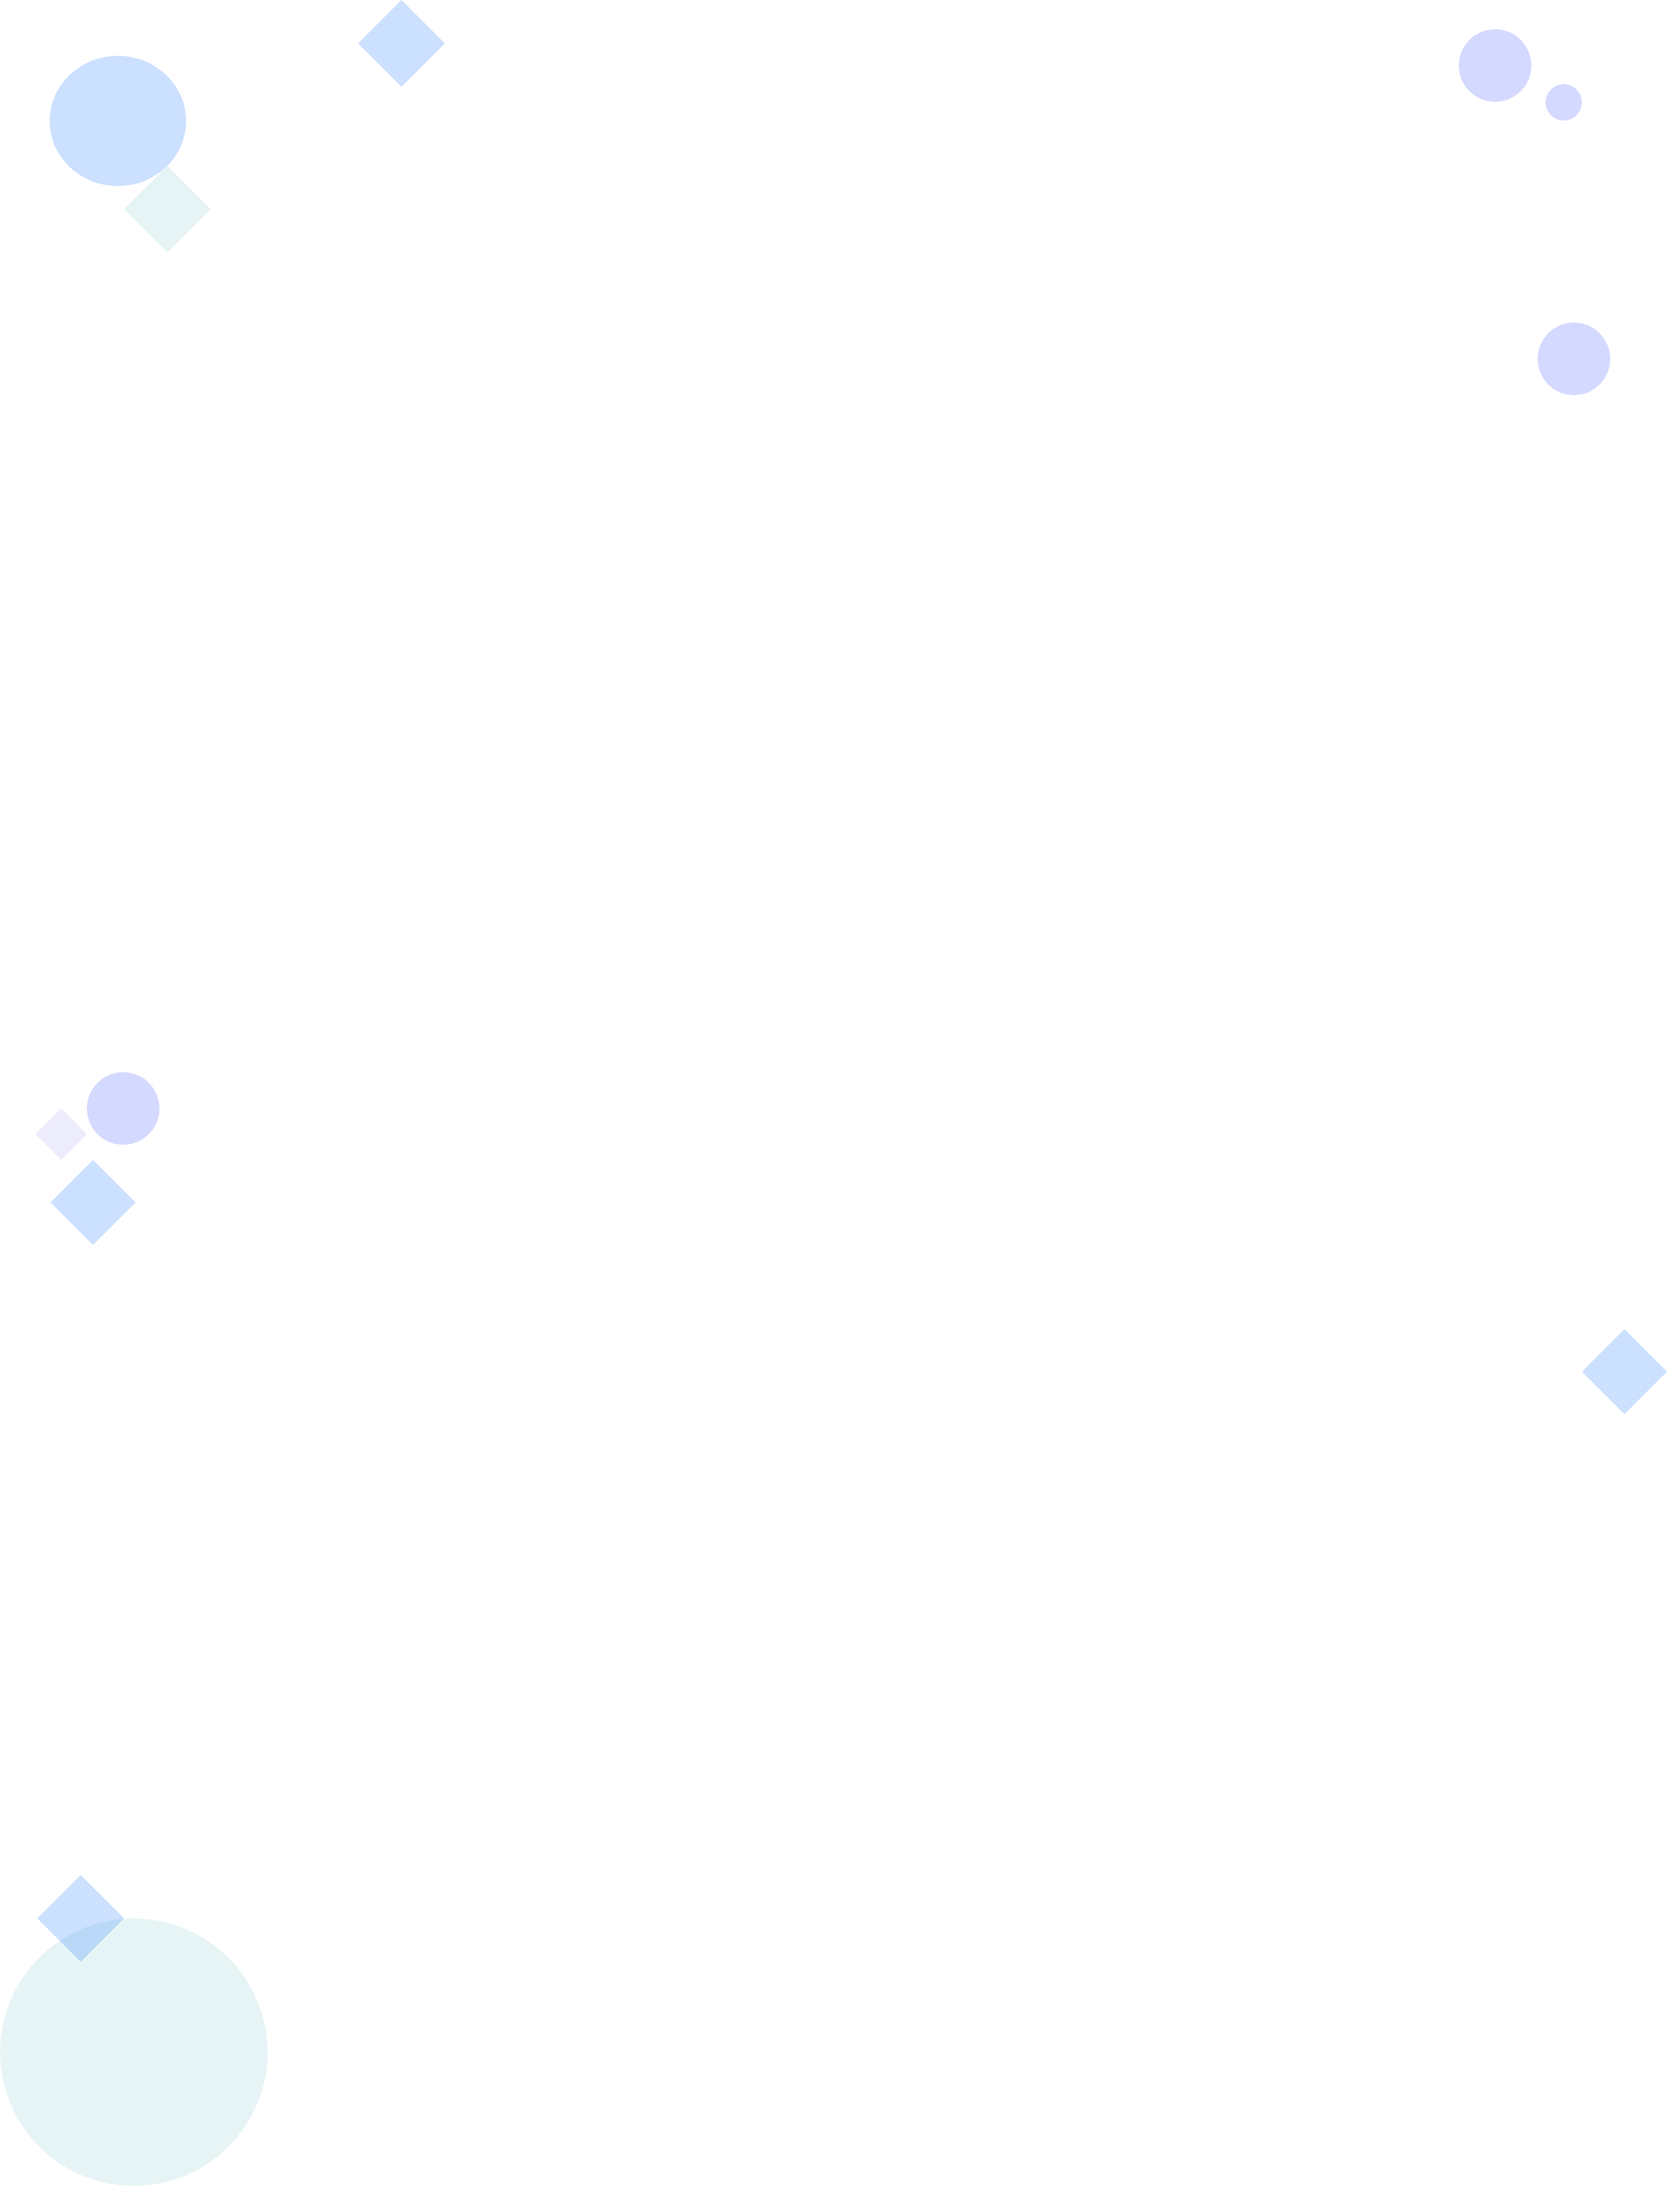
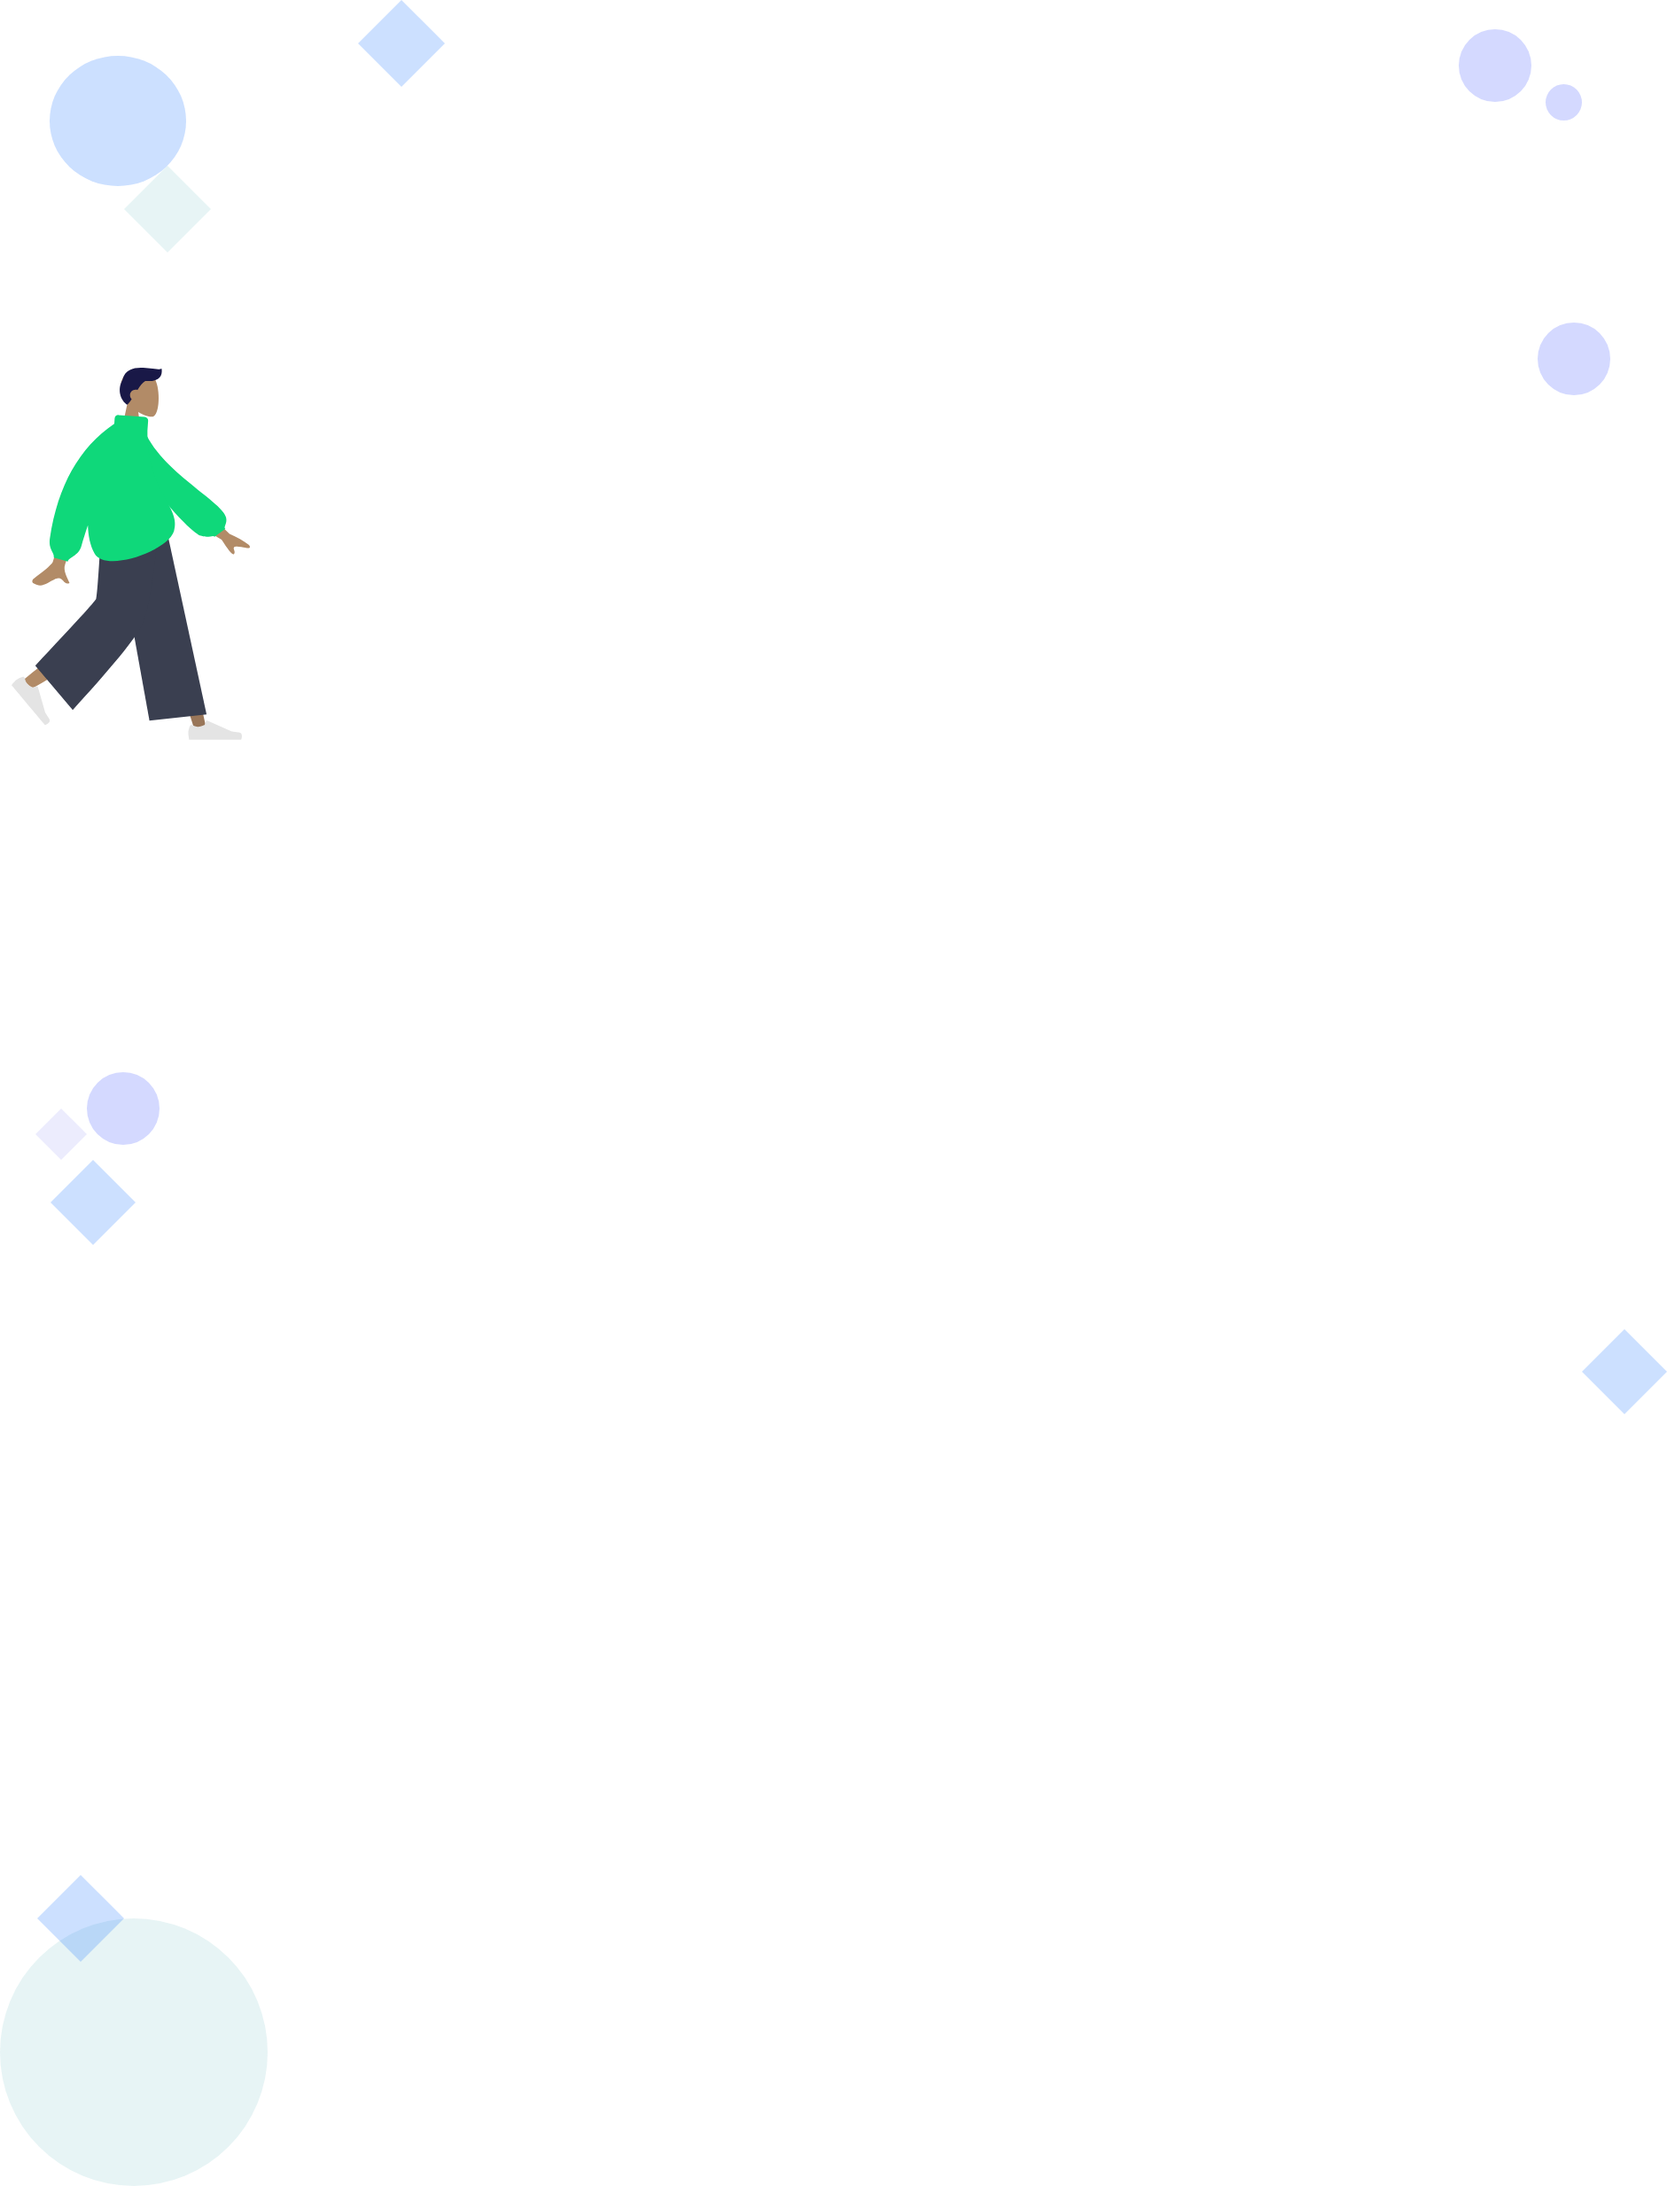
added background images and styled pages

Changed region(s): [[0.0, 0.1561, 0.1542, 0.3433]]

diff --git a/urp-tool/src/Screens/AddUserResearch.js b/urp-tool/src/Screens/AddUserResearch.js
@@ -11,7 +11,6 @@ import {
 import FileUpload from "../Components/FileUpload";
 import AddUserResearchText from "../Components/AddUserResearchText";
 import NewFooter from "../Components/NewFooter";
-import AddUserResearchIllustration from "../Components/AddUserResearchIllustration";
 import {db} from "../firebase"
 
 class AddProjects extends Component {
@@ -85,15 +84,16 @@ class AddProjects extends Component {
         >
           Add New User Researches
         </MDBTypography>
-        <div>
+        <div className= "col-md-12 adduserresearch-main">
           <AddUserResearchText />
           <div>
-            <AddUserResearchIllustration />
             <MDBContainer>
               <MDBRow className="center-align">
                 <MDBCol
                   className="col-md-10"
+                  className="center-align add-project-card"
                   style={{ border: "1px solid blue", marginBottom: "20vh" }}
+                  
                 >
                   <form
                     onSubmit={this.submitForm}
@@ -362,6 +362,7 @@ class AddProjects extends Component {
                       />
                     </div>
                     <br />
+                    <div className="col-md-6">
                     <div className="col-md-4">
                         <label
                           htmlFor="jobtitle"
@@ -392,6 +393,7 @@ class AddProjects extends Component {
                         })
                           : null}
                         </select>
+                        </div>
                       </div>
                       <br />
                     <div className="row col-md-12">

diff --git a/urp-tool/src/Screens/AddProjects.js b/urp-tool/src/Screens/AddProjects.js
@@ -9,7 +9,6 @@ import {
 } from "mdbreact";
 import AddProjectsText from "../Components/AddProjectsText";
 import NewFooter from "../Components/NewFooter";
-import AddProjectsIllustration from "../Components/AddProjectsIllustration";
 import FileUpload from "../Components/FileUpload";
 import { db } from "../firebase";
 import formillustration from "../Assets/FormIllustration.png";
@@ -52,7 +51,6 @@ class AddProjects extends Component {
                   className="center-align add-project-card"
                 >
                   <form onSubmit={this.submitForm}>
-                    {/* <AddProjectsIllustration /> */}
                     <p
                       className="h5 text-center mb-4 font_bold"
                       style={{ color: "#222222" }}

diff --git a/urp-tool/src/Screens/ProjectsPage.js b/urp-tool/src/Screens/ProjectsPage.js
@@ -30,7 +30,7 @@ class ProjectsPage extends Component {
   render() {
     return (
       <section>
-      <div className="col-md-12 background-4">
+      <div>
         <MDBTypography
           tag='h3'
           variant='h3-responsive'
@@ -40,7 +40,7 @@ class ProjectsPage extends Component {
           Projects
         </MDBTypography>
           <ProjectsPageText />
-        
+          <div className="col-md-12 background-class">
           {this.state.loaded
           ? <ProjectsCard projects={this.state.projects} />
           : <Spinner />}
@@ -67,6 +67,7 @@ class ProjectsPage extends Component {
                   Back to Home
             </MDBNavLink>
       </button>
+      </div>
       </div>
       <NewFooter />
       </section>

diff --git a/urp-tool/src/App.css b/urp-tool/src/App.css
@@ -156,12 +156,12 @@
 
 .background-class {
   background-image: url("./Assets/ProjectsPageBackground.png");
-  background-size: contain;
+  background-size: cover;
 }
 
 .background1-class {
   background-image: url("./Assets/UserProfileBackground.png");
-  background-size: contain;
+  background-size: cover;
 }
 
 .add-project-card {
@@ -175,6 +175,11 @@
 
 .project-main {
   background: url("./Assets/Addprojectsillustration.png");
+  background-size: cover;
+}
+
+.adduserresearch-main{
+  background: url("./Assets/AddUserResearchBackground.png");
   background-size: cover;
 }
 

diff --git a/urp-tool/src/Components/ProjectsAdminText.js b/urp-tool/src/Components/ProjectsAdminText.js
@@ -25,6 +25,14 @@ const ProjectsAdminText = () => {
         </p>
       </div>
 
+        <div
+        style={{
+        display: "flex",
+        justifyContent: "space-between",
+        marginTop: "5vh",
+        marginBottom: "5vh",
+        }}
+        >
       <button
         type="button"
         style={{
@@ -68,6 +76,7 @@ const ProjectsAdminText = () => {
           Add more Projects
         </MDBNavLink>
       </button>
+      </div>
     </div>
   );
 };

diff --git a/urp-tool/src/Screens/UserResearchPage.js b/urp-tool/src/Screens/UserResearchPage.js
@@ -21,7 +21,7 @@ class UserResearchPage extends Component {
           User Research
         </MDBTypography>
         {/* <h3>project : {this.props.match.params.name}</h3> */}
-        <div>
+        <div className= "col-md-12 background1-class">
           <UserResearchPageText />
           <UserProfile />
 
